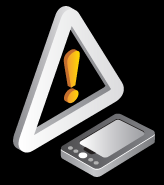
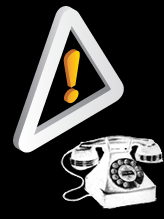
fix compile warnings in recovery, change images
gcc 4.4 complains about some of the recovery ui functions not being
declared.  To include the header, we have to fix the 'volatile'
declaration (otherwise there's a compiler error).

Move the dream-specific images to vendor/htc/dream, make the default
images a generic phone.

diff --git a/recovery_ui.h b/recovery_ui.h
@@ -21,13 +21,13 @@
 // *key_pressed is an array of KEY_MAX+1 bytes indicating which other
 // keys are already pressed.  Return true if the text display should
 // be toggled.
-extern int device_toggle_display(char* key_pressed, int key_code);
+extern int device_toggle_display(volatile char* key_pressed, int key_code);
 
 // Called in the input thread when a new key (key_code) is pressed.
 // *key_pressed is an array of KEY_MAX+1 bytes indicating which other
 // keys are already pressed.  Return true if the device should reboot
 // immediately.
-extern int device_reboot_now(char* key_pressed, int key_code);
+extern int device_reboot_now(volatile char* key_pressed, int key_code);
 
 // Called from the main thread when recovery is waiting for input and
 // a key is pressed.  key is the code of the key pressed; visible is

diff --git a/default_recovery_ui.c b/default_recovery_ui.c
@@ -29,11 +29,11 @@ char* MENU_ITEMS[] = { "reboot system now",
                        "wipe cache partition",
                        NULL };
 
-int device_toggle_display(char* key_pressed, int key_code) {
+int device_toggle_display(volatile char* key_pressed, int key_code) {
     return key_code == KEY_HOME;
 }
 
-int device_reboot_now(char* key_pressed, int key_code) {
+int device_reboot_now(volatile char* key_pressed, int key_code) {
     return 0;
 }
 

diff --git a/ui.c b/ui.c
@@ -27,6 +27,7 @@
 
 #include "common.h"
 #include "minui/minui.h"
+#include "recovery_ui.h"
 
 #define MAX_COLS 64
 #define MAX_ROWS 32
